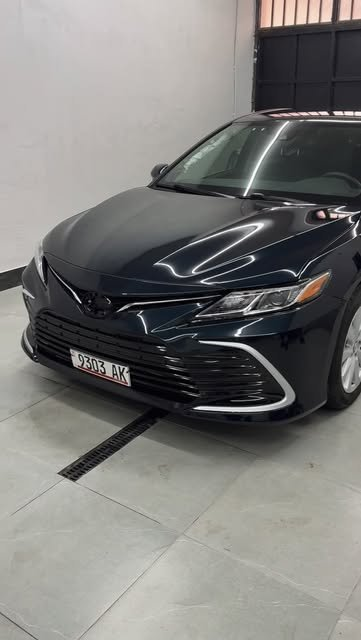
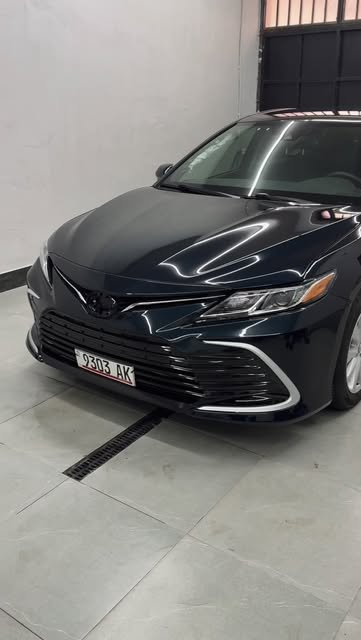
Apply review fixes: ka/en copy, header breakpoint, a11y, SEO, correct hero image
- Fix inverted Georgian verb in booking pitch, Russian loanword, register mixing, Google genitive
- Fix EN badge grammar, gallery caption doubling, title/description consistency
- Collapse nav at 900px (header overflowed at 641-860px), add scroll-padding for sticky header
- aria-label on icon-only WhatsApp header button; window.open fallback for in-app browsers
- LocalBusiness JSON-LD, 1200x630 OG cover, twitter:card; hero phone in +995 format
- Replace mistakenly-copied reel frame with the correct polished-car shots

diff --git a/index.html b/index.html
@@ -9,9 +9,48 @@
   <link rel="icon" type="image/png" href="assets/favicon.png">
   <meta property="og:title" content="CARION — ავტო დითეილინგი თბილისში">
   <meta property="og:description" content="სრული ქიმწმენდა, პოლირება, კერამიკა, ფირის გადაკვრა და შუშების დაბურვა. კაკლიანის 35, თბილისი. ყოველდღე 08:00–00:00.">
-  <meta property="og:image" content="https://abrama1.github.io/carion-detailing/assets/result-camry.jpg">
+  <meta property="og:image" content="https://abrama1.github.io/carion-detailing/assets/og-cover.jpg">
+  <meta property="og:image:width" content="1200">
+  <meta property="og:image:height" content="630">
   <meta property="og:url" content="https://abrama1.github.io/carion-detailing/">
   <meta property="og:type" content="website">
+  <meta property="og:site_name" content="CARION">
+  <meta property="og:locale" content="ka_GE">
+  <meta name="twitter:card" content="summary_large_image">
+  <script type="application/ld+json">
+  {
+    "@context": "https://schema.org",
+    "@type": "AutoRepair",
+    "name": "CARION / ქერიონი",
+    "description": "ავტომობილის სრული ქიმწმენდა, პოლირება, კერამიკული საფარი, ფირის გადაკვრა და შუშების დაბურვა თბილისში.",
+    "url": "https://abrama1.github.io/carion-detailing/",
+    "image": "https://abrama1.github.io/carion-detailing/assets/og-cover.jpg",
+    "logo": "https://abrama1.github.io/carion-detailing/assets/logo.jpg",
+    "telephone": "+995577775892",
+    "address": {
+      "@type": "PostalAddress",
+      "streetAddress": "კაკლიანის ქ. 35",
+      "addressLocality": "თბილისი",
+      "addressCountry": "GE"
+    },
+    "geo": {
+      "@type": "GeoCoordinates",
+      "latitude": 41.6905872,
+      "longitude": 44.8946111
+    },
+    "openingHoursSpecification": {
+      "@type": "OpeningHoursSpecification",
+      "dayOfWeek": ["Monday", "Tuesday", "Wednesday", "Thursday", "Friday", "Saturday", "Sunday"],
+      "opens": "08:00",
+      "closes": "00:00"
+    },
+    "sameAs": [
+      "https://www.instagram.com/c_a_r_i_o_n/",
+      "https://www.facebook.com/profile.php?id=61577274991877",
+      "https://www.tiktok.com/@carion012"
+    ]
+  }
+  </script>
   <link rel="preconnect" href="https://fonts.googleapis.com">
   <link rel="preconnect" href="https://fonts.gstatic.com" crossorigin>
   <link href="https://fonts.googleapis.com/css2?family=Noto+Sans+Georgian:wght@400;500;600;700&family=Noto+Serif+Georgian:wght@500;600;700&display=swap" rel="stylesheet">
@@ -33,7 +72,7 @@
     </nav>
     <div class="header-actions">
       <button class="lang-toggle" id="langToggle" type="button" aria-label="Switch language">EN</button>
-      <a class="btn btn-whatsapp btn-sm" id="headerWa" href="https://wa.me/995577775892" target="_blank" rel="noopener">
+      <a class="btn btn-whatsapp btn-sm" id="headerWa" href="https://wa.me/995577775892" target="_blank" rel="noopener" aria-label="დაჯავშნა" data-i18n-aria="nav.book">
         <svg viewBox="0 0 24 24" width="16" height="16" aria-hidden="true"><path fill="currentColor" d="M12 2a10 10 0 0 0-8.6 15.1L2 22l5-1.3A10 10 0 1 0 12 2Zm0 18.2a8.2 8.2 0 0 1-4.2-1.2l-.3-.2-3 .8.8-2.9-.2-.3A8.2 8.2 0 1 1 12 20.2Zm4.5-6.1c-.2-.1-1.5-.7-1.7-.8-.2-.1-.4-.1-.6.1-.2.2-.6.8-.8 1-.1.2-.3.2-.5.1a6.7 6.7 0 0 1-3.3-2.9c-.3-.4.2-.4.5-1.3.1-.2 0-.4 0-.5l-.8-1.8c-.2-.5-.4-.4-.6-.4h-.5c-.2 0-.5.1-.7.3-.2.3-.9.9-.9 2.2s.9 2.5 1 2.7c.1.2 1.8 2.8 4.4 3.9 1.6.7 2.3.8 3.1.7.5-.1 1.5-.6 1.7-1.2.2-.6.2-1.1.1-1.2 0-.1-.2-.2-.4-.3Z"/></svg>
       <span data-i18n="nav.book">დაჯავშნა</span></a>
     </div>
@@ -52,13 +91,13 @@
         <h1 data-i18n="hero.title">თქვენი ავტომობილი იმსახურებს სრულყოფილ მოვლას</h1>
         <p class="hero-sub" data-i18n="hero.sub">სრული ქიმწმენდა, პოლირება, კერამიკული საფარი, ფირის გადაკვრა და შუშების დაბურვა — ერთ სივრცეში, ისთ ფოინთის გვერდით.</p>
         <div class="hero-cta">
-          <a class="btn btn-whatsapp" href="#booking" data-i18n="hero.ctaBook">დაჯავშნე WhatsApp-ით</a>
+          <a class="btn btn-whatsapp" href="#booking" data-i18n="hero.ctaBook">დაჯავშნეთ WhatsApp-ით</a>
           <a class="btn btn-ghost" href="tel:+995577775892">
             <svg viewBox="0 0 24 24" width="16" height="16" aria-hidden="true"><path fill="currentColor" d="M6.6 10.8a15.6 15.6 0 0 0 6.6 6.6l2.2-2.2c.3-.3.7-.4 1-.2 1.1.4 2.3.6 3.6.6.6 0 1 .4 1 1V20c0 .6-.4 1-1 1A17 17 0 0 1 3 4c0-.6.4-1 1-1h3.5c.6 0 1 .4 1 1 0 1.2.2 2.4.6 3.6.1.3 0 .7-.2 1l-2.3 2.2Z"/></svg>
-            577 77 58 92</a>
+            +995 577 77 58 92</a>
         </div>
         <ul class="hero-badges">
-          <li><span class="badge-num">5.0</span> <span class="star" aria-hidden="true">★</span> <span data-i18n="hero.badgeGoogle">Google რეიტინგი</span></li>
+          <li><span class="badge-num">5.0</span> <span class="star" aria-hidden="true">★</span> <span data-i18n="hero.badgeGoogle">Google-ის რეიტინგი</span></li>
           <li><span class="badge-num">08:00–00:00</span> <span data-i18n="hero.badgeHours">ყოველდღე</span></li>
           <li><span class="badge-num">100%</span> <span data-i18n="hero.badgeFb">რეკომენდაცია Facebook-ზე</span></li>
         </ul>
@@ -106,7 +145,7 @@
             <svg viewBox="0 0 24 24" width="26" height="26"><path fill="none" stroke="currentColor" stroke-width="1.6" stroke-linecap="round" stroke-linejoin="round" d="M4 8h16v10a1 1 0 0 1-1 1H5a1 1 0 0 1-1-1V8Z"/><path fill="none" stroke="currentColor" stroke-width="1.6" stroke-linecap="round" d="M4 8l2.4-3.6A1 1 0 0 1 7.2 4h9.6a1 1 0 0 1 .8.4L20 8M8 12l4 4M12.5 11.5l3 3"/></svg>
           </div>
           <h3 data-i18n="services.s4.title">ფირის გადაკვრა</h3>
-          <p data-i18n="services.s4.desc">დამცავი და დეკორატიული ფირები კუზოვისთვის — დაცული საღებავი და განახლებული იერსახე.</p>
+          <p data-i18n="services.s4.desc">დამცავი და დეკორატიული ფირები ავტომობილის ძარისთვის — დაცული საღებავი და განახლებული იერსახე.</p>
           <button class="service-select" type="button" data-service="film"><span data-i18n="services.select">არჩევა დასაჯავშნად</span> →</button>
         </article>
         <article class="service-card">
@@ -164,8 +203,8 @@
     <div class="container booking-inner">
       <div class="booking-copy">
         <p class="eyebrow" data-i18n="booking.eyebrow">დაჯავშნა 1 წუთში</p>
-        <h2 data-i18n="booking.title">დაჯავშნე ვიზიტი WhatsApp-ით</h2>
-        <p data-i18n="booking.sub">აირჩიეთ სერვისი და დრო — ღილაკზე დაჭერით WhatsApp გაიხსნება უკვე შედგენილი შეტყობინებით. დაგვიდასტურებთ და გელოდებით!</p>
+        <h2 data-i18n="booking.title">დაჯავშნეთ ვიზიტი WhatsApp-ით</h2>
+        <p data-i18n="booking.sub">აირჩიეთ სერვისი და დრო — ღილაკზე დაჭერით WhatsApp გაიხსნება უკვე შედგენილი შეტყობინებით. დაგიდასტურებთ და გელოდებით!</p>
         <ol class="booking-steps">
           <li data-i18n="booking.step1">აირჩიეთ სერვისი</li>
           <li data-i18n="booking.step2">მიუთითეთ ავტომობილი და დრო</li>
@@ -246,7 +285,7 @@
           </li>
         </ul>
         <div class="contact-cta">
-          <a class="btn btn-gold" href="https://www.google.com/maps/place/%E1%83%A5%E1%83%94%E1%83%A0%E1%83%98%E1%83%9D%E1%83%9C%E1%83%98%2FCARION/@41.6905872,44.8946111,17z/data=!3m1!4b1!4m6!3m5!1s0x40440d8deca0a99d:0x288826c1bd3ea6d4!8m2!3d41.6905872!4d44.8946111!16s%2Fg%2F11mm88jyj5" target="_blank" rel="noopener" data-i18n="contact.maps">გახსენი Google Maps-ში</a>
+          <a class="btn btn-gold" href="https://www.google.com/maps/place/%E1%83%A5%E1%83%94%E1%83%A0%E1%83%98%E1%83%9D%E1%83%9C%E1%83%98%2FCARION/@41.6905872,44.8946111,17z/data=!3m1!4b1!4m6!3m5!1s0x40440d8deca0a99d:0x288826c1bd3ea6d4!8m2!3d41.6905872!4d44.8946111!16s%2Fg%2F11mm88jyj5" target="_blank" rel="noopener" data-i18n="contact.maps">გახსენით Google Maps-ში</a>
           <a class="btn btn-ghost" href="https://wa.me/995577775892" target="_blank" rel="noopener">WhatsApp</a>
         </div>
       </div>

diff --git a/js/main.js b/js/main.js
@@ -14,8 +14,8 @@
       "hero.eyebrow": "დითეილინგ სტუდია • ვარკეთილი, თბილისი",
       "hero.title": "თქვენი ავტომობილი იმსახურებს სრულყოფილ მოვლას",
       "hero.sub": "სრული ქიმწმენდა, პოლირება, კერამიკული საფარი, ფირის გადაკვრა და შუშების დაბურვა — ერთ სივრცეში, ისთ ფოინთის გვერდით.",
-      "hero.ctaBook": "დაჯავშნე WhatsApp-ით",
-      "hero.badgeGoogle": "Google რეიტინგი",
+      "hero.ctaBook": "დაჯავშნეთ WhatsApp-ით",
+      "hero.badgeGoogle": "Google-ის რეიტინგი",
       "hero.badgeHours": "ყოველდღე",
       "hero.badgeFb": "რეკომენდაცია Facebook-ზე",
       "services.eyebrow": "რას გთავაზობთ",
@@ -28,7 +28,7 @@
       "services.s3.title": "კერამიკული საფარი",
       "services.s3.desc": "გრძელვადიანი დაცვა ქიმიური და მექანიკური ზემოქმედებისგან — სიღრმისეული ბზინვარებით.",
       "services.s4.title": "ფირის გადაკვრა",
-      "services.s4.desc": "დამცავი და დეკორატიული ფირები კუზოვისთვის — დაცული საღებავი და განახლებული იერსახე.",
+      "services.s4.desc": "დამცავი და დეკორატიული ფირები ავტომობილის ძარისთვის — დაცული საღებავი და განახლებული იერსახე.",
       "services.s5.title": "შუშების დაბურვა",
       "services.s5.desc": "პროფესიონალური ტონირება — კომფორტი, კონფიდენციალურობა და დაცვა მზისგან.",
       "services.custom.title": "ვერ პოულობთ სასურველს?",
@@ -45,8 +45,8 @@
       "works.after": "შედეგი",
       "works.more": "მეტი ვიდეო ჩვენს Instagram-ზე →",
       "booking.eyebrow": "დაჯავშნა 1 წუთში",
-      "booking.title": "დაჯავშნე ვიზიტი WhatsApp-ით",
-      "booking.sub": "აირჩიეთ სერვისი და დრო — ღილაკზე დაჭერით WhatsApp გაიხსნება უკვე შედგენილი შეტყობინებით. დაგვიდასტურებთ და გელოდებით!",
+      "booking.title": "დაჯავშნეთ ვიზიტი WhatsApp-ით",
+      "booking.sub": "აირჩიეთ სერვისი და დრო — ღილაკზე დაჭერით WhatsApp გაიხსნება უკვე შედგენილი შეტყობინებით. დაგიდასტურებთ და გელოდებით!",
       "booking.step1": "აირჩიეთ სერვისი",
       "booking.step2": "მიუთითეთ ავტომობილი და დრო",
       "booking.step3": "გააგზავნეთ WhatsApp-ში",
@@ -78,7 +78,7 @@
       "contact.hoursLabel": "სამუშაო საათები",
       "contact.hours": "ყოველდღე: 08:00 – 00:00",
       "contact.phoneLabel": "ტელეფონი",
-      "contact.maps": "გახსენი Google Maps-ში",
+      "contact.maps": "გახსენით Google Maps-ში",
       "contact.signCaption": "ჩვენი სტუდია კაკლიანის 35-ზე",
       "footer.tagline": "ავტომობილის სრული ქიმწმენდა / Detailing",
       "footer.address": "კაკლიანის 35, თბილისი",
@@ -112,7 +112,7 @@
       "hero.ctaBook": "Book via WhatsApp",
       "hero.badgeGoogle": "Google rating",
       "hero.badgeHours": "open daily",
-      "hero.badgeFb": "recommend on Facebook",
+      "hero.badgeFb": "recommended on Facebook",
       "services.eyebrow": "What we offer",
       "services.title": "Services",
       "services.select": "Select for booking",
@@ -134,7 +134,7 @@
       "works.c1": "Safe wash",
       "works.c2": "Interior deep clean",
       "works.c3": "Engine bay cleaning",
-      "works.c4": "Before detailing",
+      "works.c4": "the deep clean",
       "works.c5": "Mirror finish",
       "works.before": "Before",
       "works.after": "After",
@@ -192,8 +192,8 @@
       "wa.time": "🕐 Time",
       "wa.name": "👤 Name",
       "wa.note": "💬 Comment",
-      "meta.title": "CARION — Auto Detailing in Tbilisi | Interior Cleaning, Polishing, Ceramic",
-      "meta.desc": "CARION — full auto detailing, polishing, ceramic coating, protective film and window tinting in Tbilisi. 35 Kakliani St., next to East Point. Open daily 08:00–00:00."
+      "meta.title": "CARION — Auto Detailing in Tbilisi | Interior Cleaning, Polishing, Ceramic Coating",
+      "meta.desc": "CARION — full interior detailing, polishing, ceramic coating, protective film and window tinting in Tbilisi. 35 Kakliani St., next to East Point. Open daily 08:00–00:00."
     }
   };
 
@@ -368,7 +368,8 @@
         return;
       }
       var url = "https://wa.me/" + WA_NUMBER + "?text=" + encodeURIComponent(buildMessage());
-      window.open(url, "_blank", "noopener");
+      var win = window.open(url, "_blank", "noopener");
+      if (!win) window.location.href = url;
     });
   }
 

diff --git a/css/styles.css b/css/styles.css
@@ -17,7 +17,7 @@
 
 * { margin: 0; padding: 0; box-sizing: border-box; }
 
-html { scroll-behavior: smooth; }
+html { scroll-behavior: smooth; scroll-padding-top: 80px; }
 
 body {
   background: var(--bg);
@@ -551,9 +551,7 @@ a:hover { color: var(--gold); }
   .footer-meta { text-align: left; }
 }
 
-@media (max-width: 640px) {
-  .section { padding: 60px 0; }
-
+@media (max-width: 900px) {
   .site-nav {
     display: none;
     position: absolute;
@@ -596,6 +594,11 @@ a:hover { color: var(--gold); }
 
   .header-inner { gap: 10px; }
   .header-actions { margin-left: auto; }
+}
+
+@media (max-width: 640px) {
+  .section { padding: 60px 0; }
+
   #headerWa span { display: none; }
   #headerWa { padding: 9px 11px; }
 
